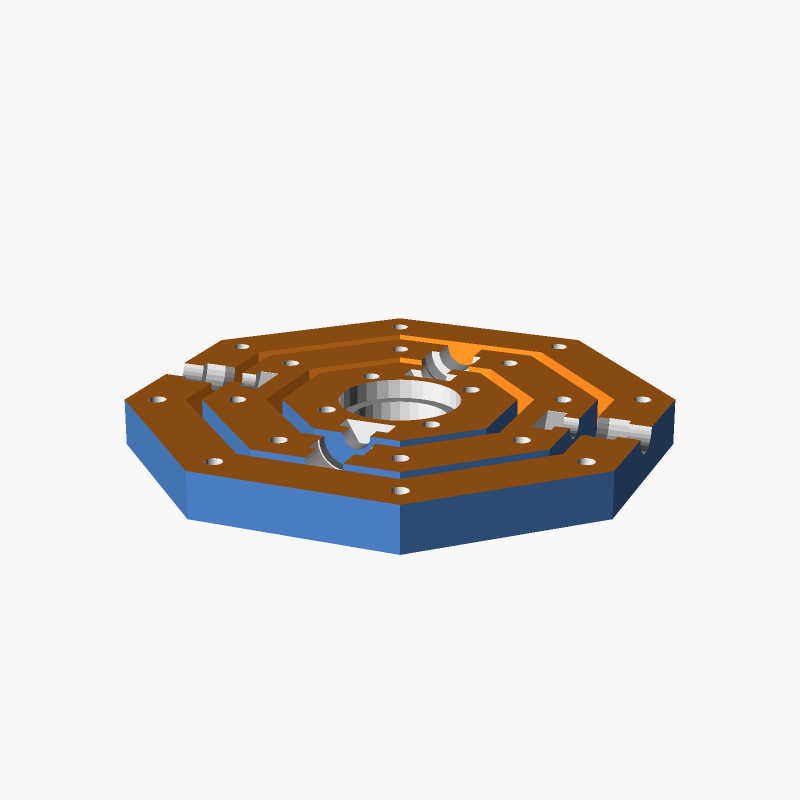
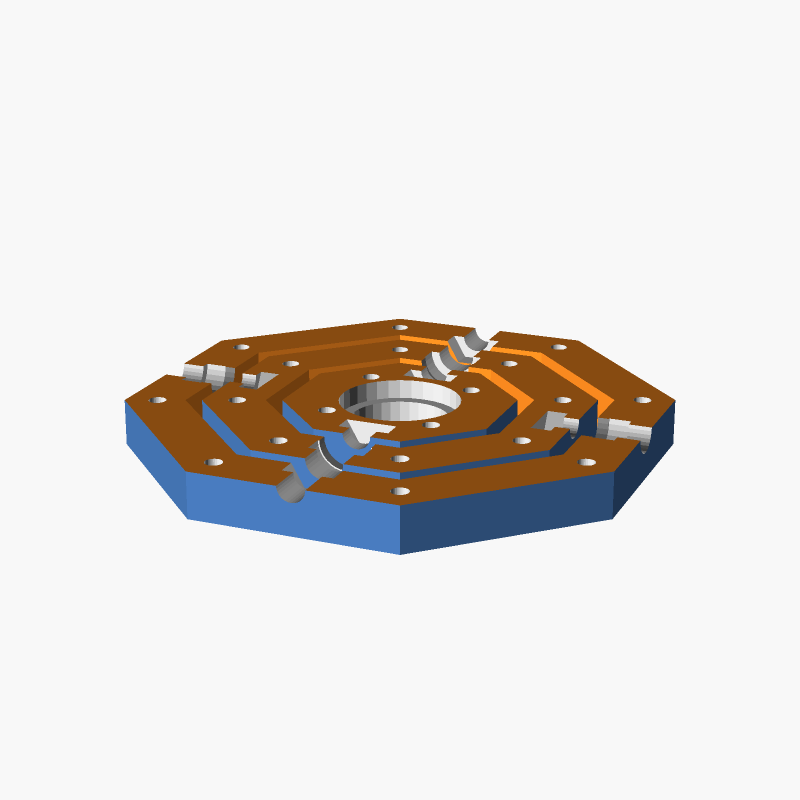
Add camera mount

diff --git a/README.md b/README.md
@@ -15,3 +15,5 @@
 |gimbal-lower-half.scad|gimbal-upper-half.scad|gimbal.scad|
 |---|---|---|
 |![gimbal-lower-half.scad](images/gimbal-lower-half.scad.png)|![gimbal-upper-half.scad](images/gimbal-upper-half.scad.png)|![gimbal.scad](images/gimbal.scad.png)|
+|mount.scad|
+|![mount.scad](images/mount.scad.png)|
